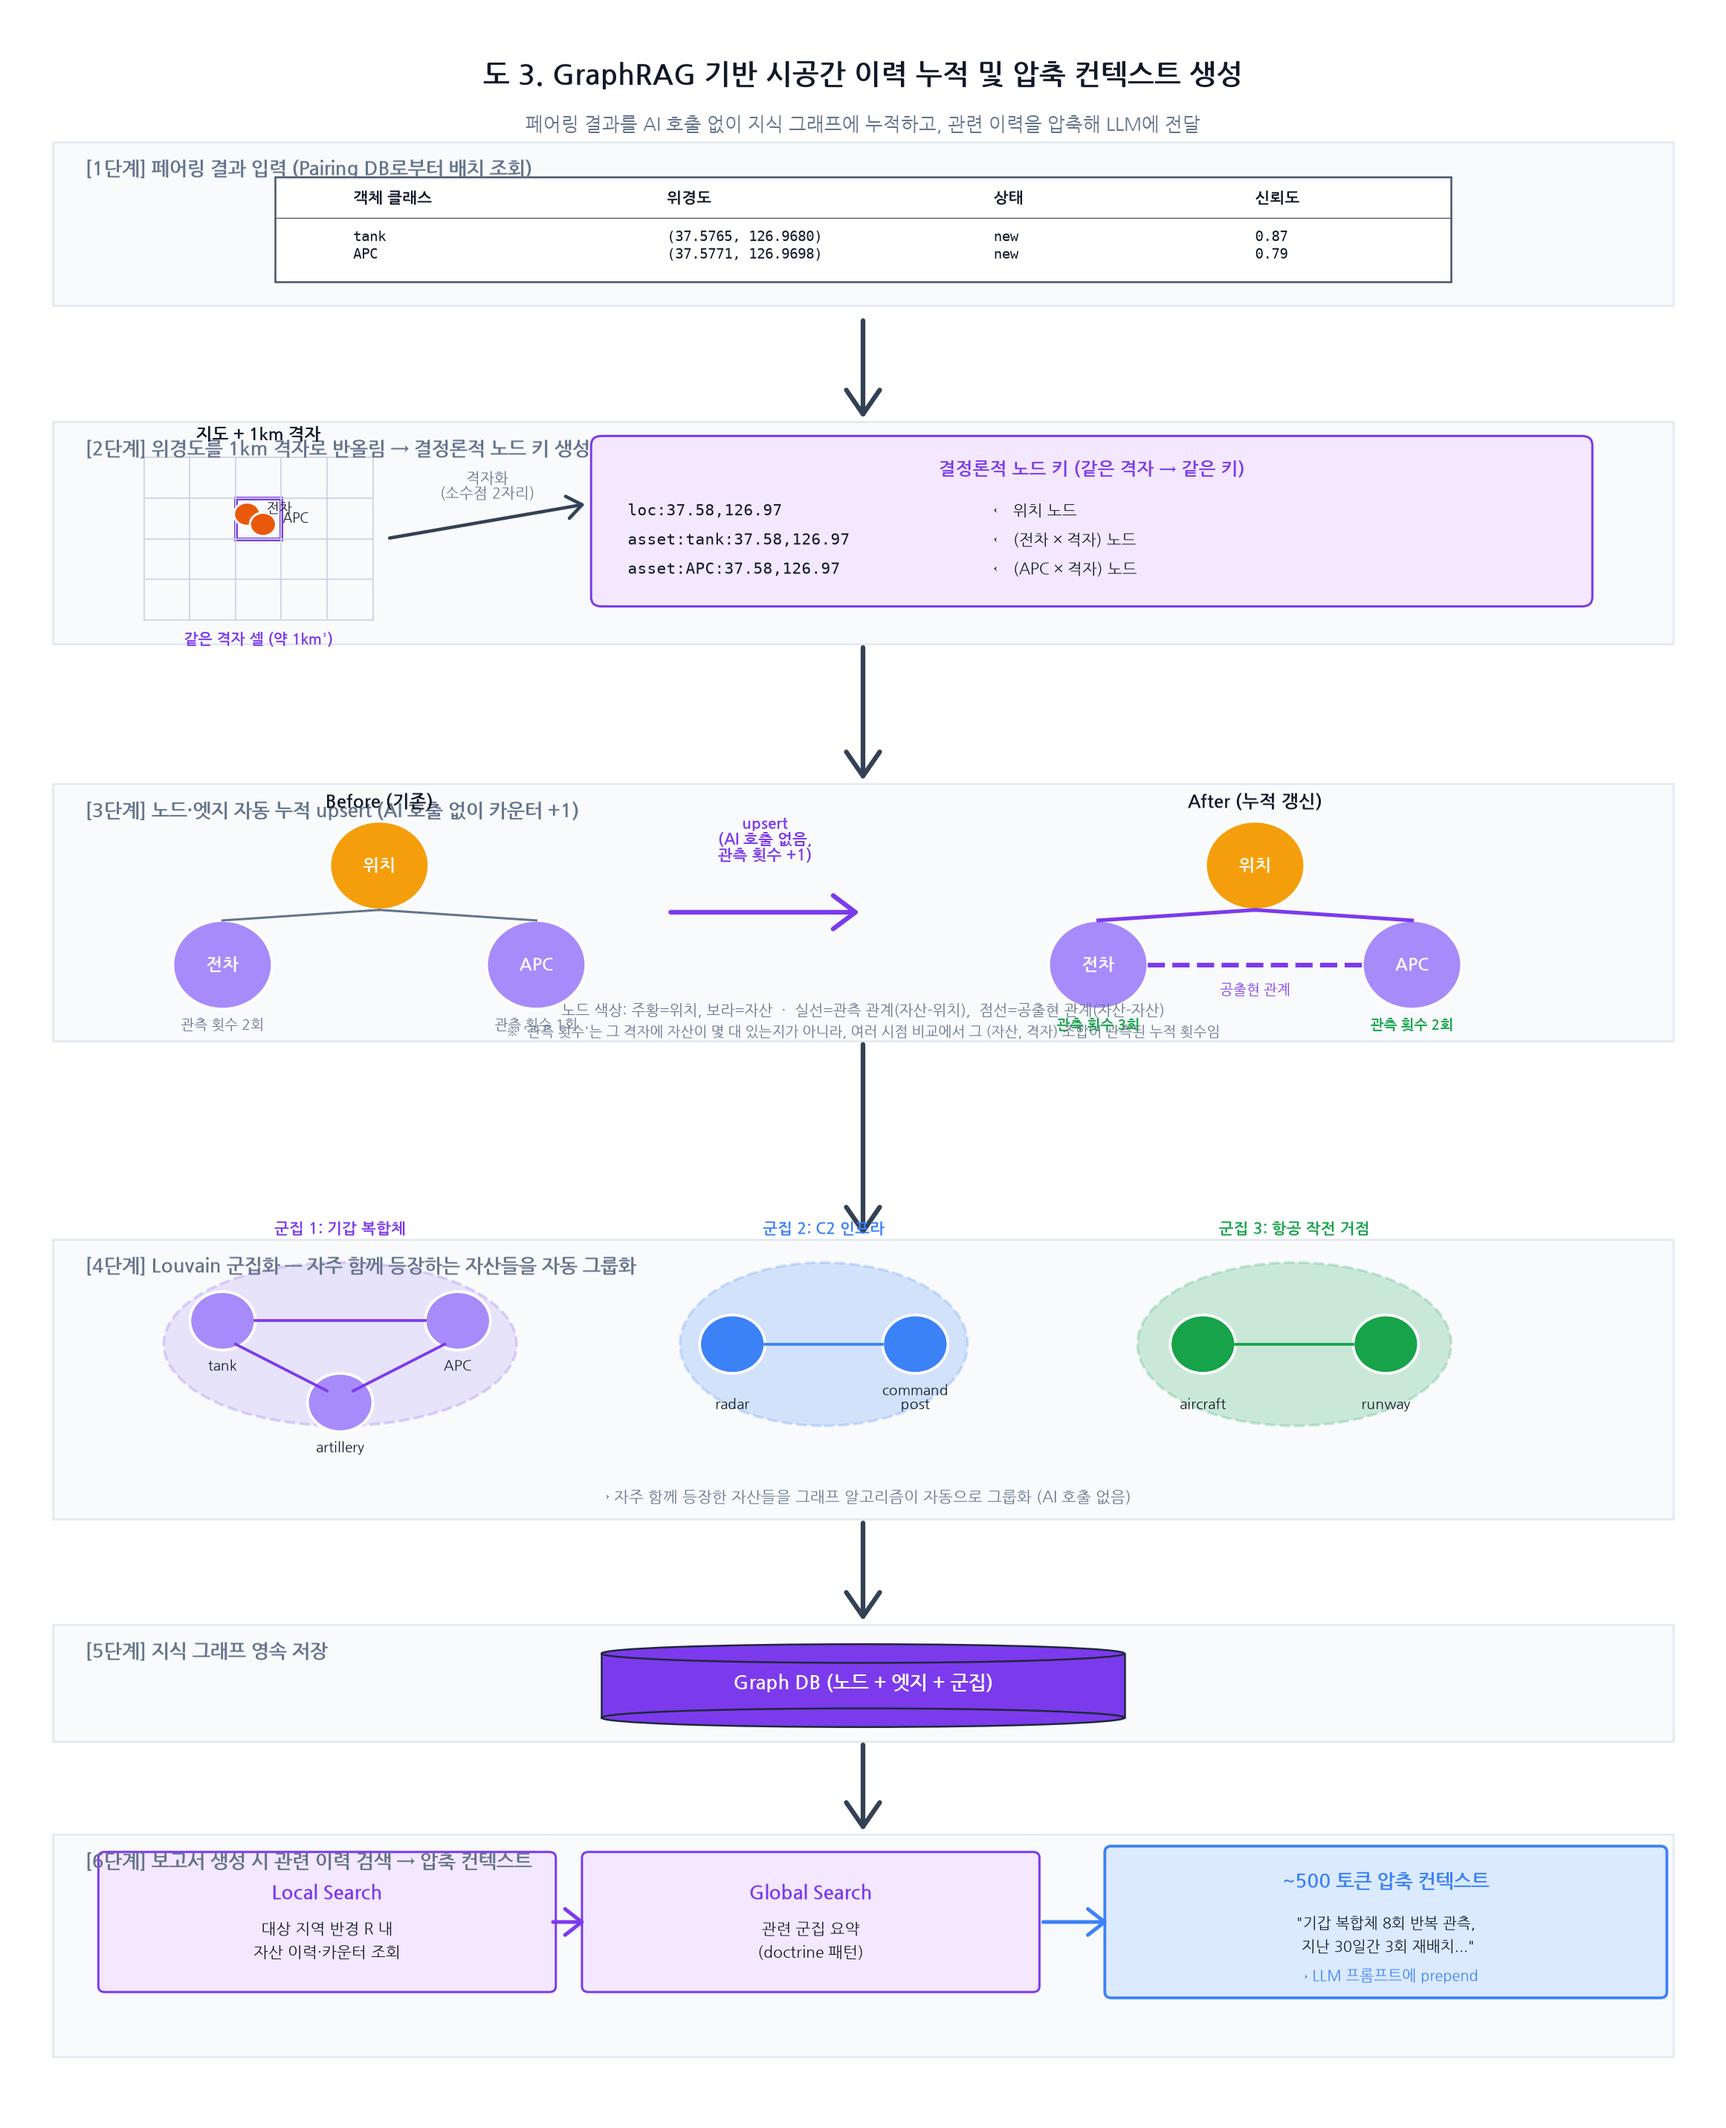
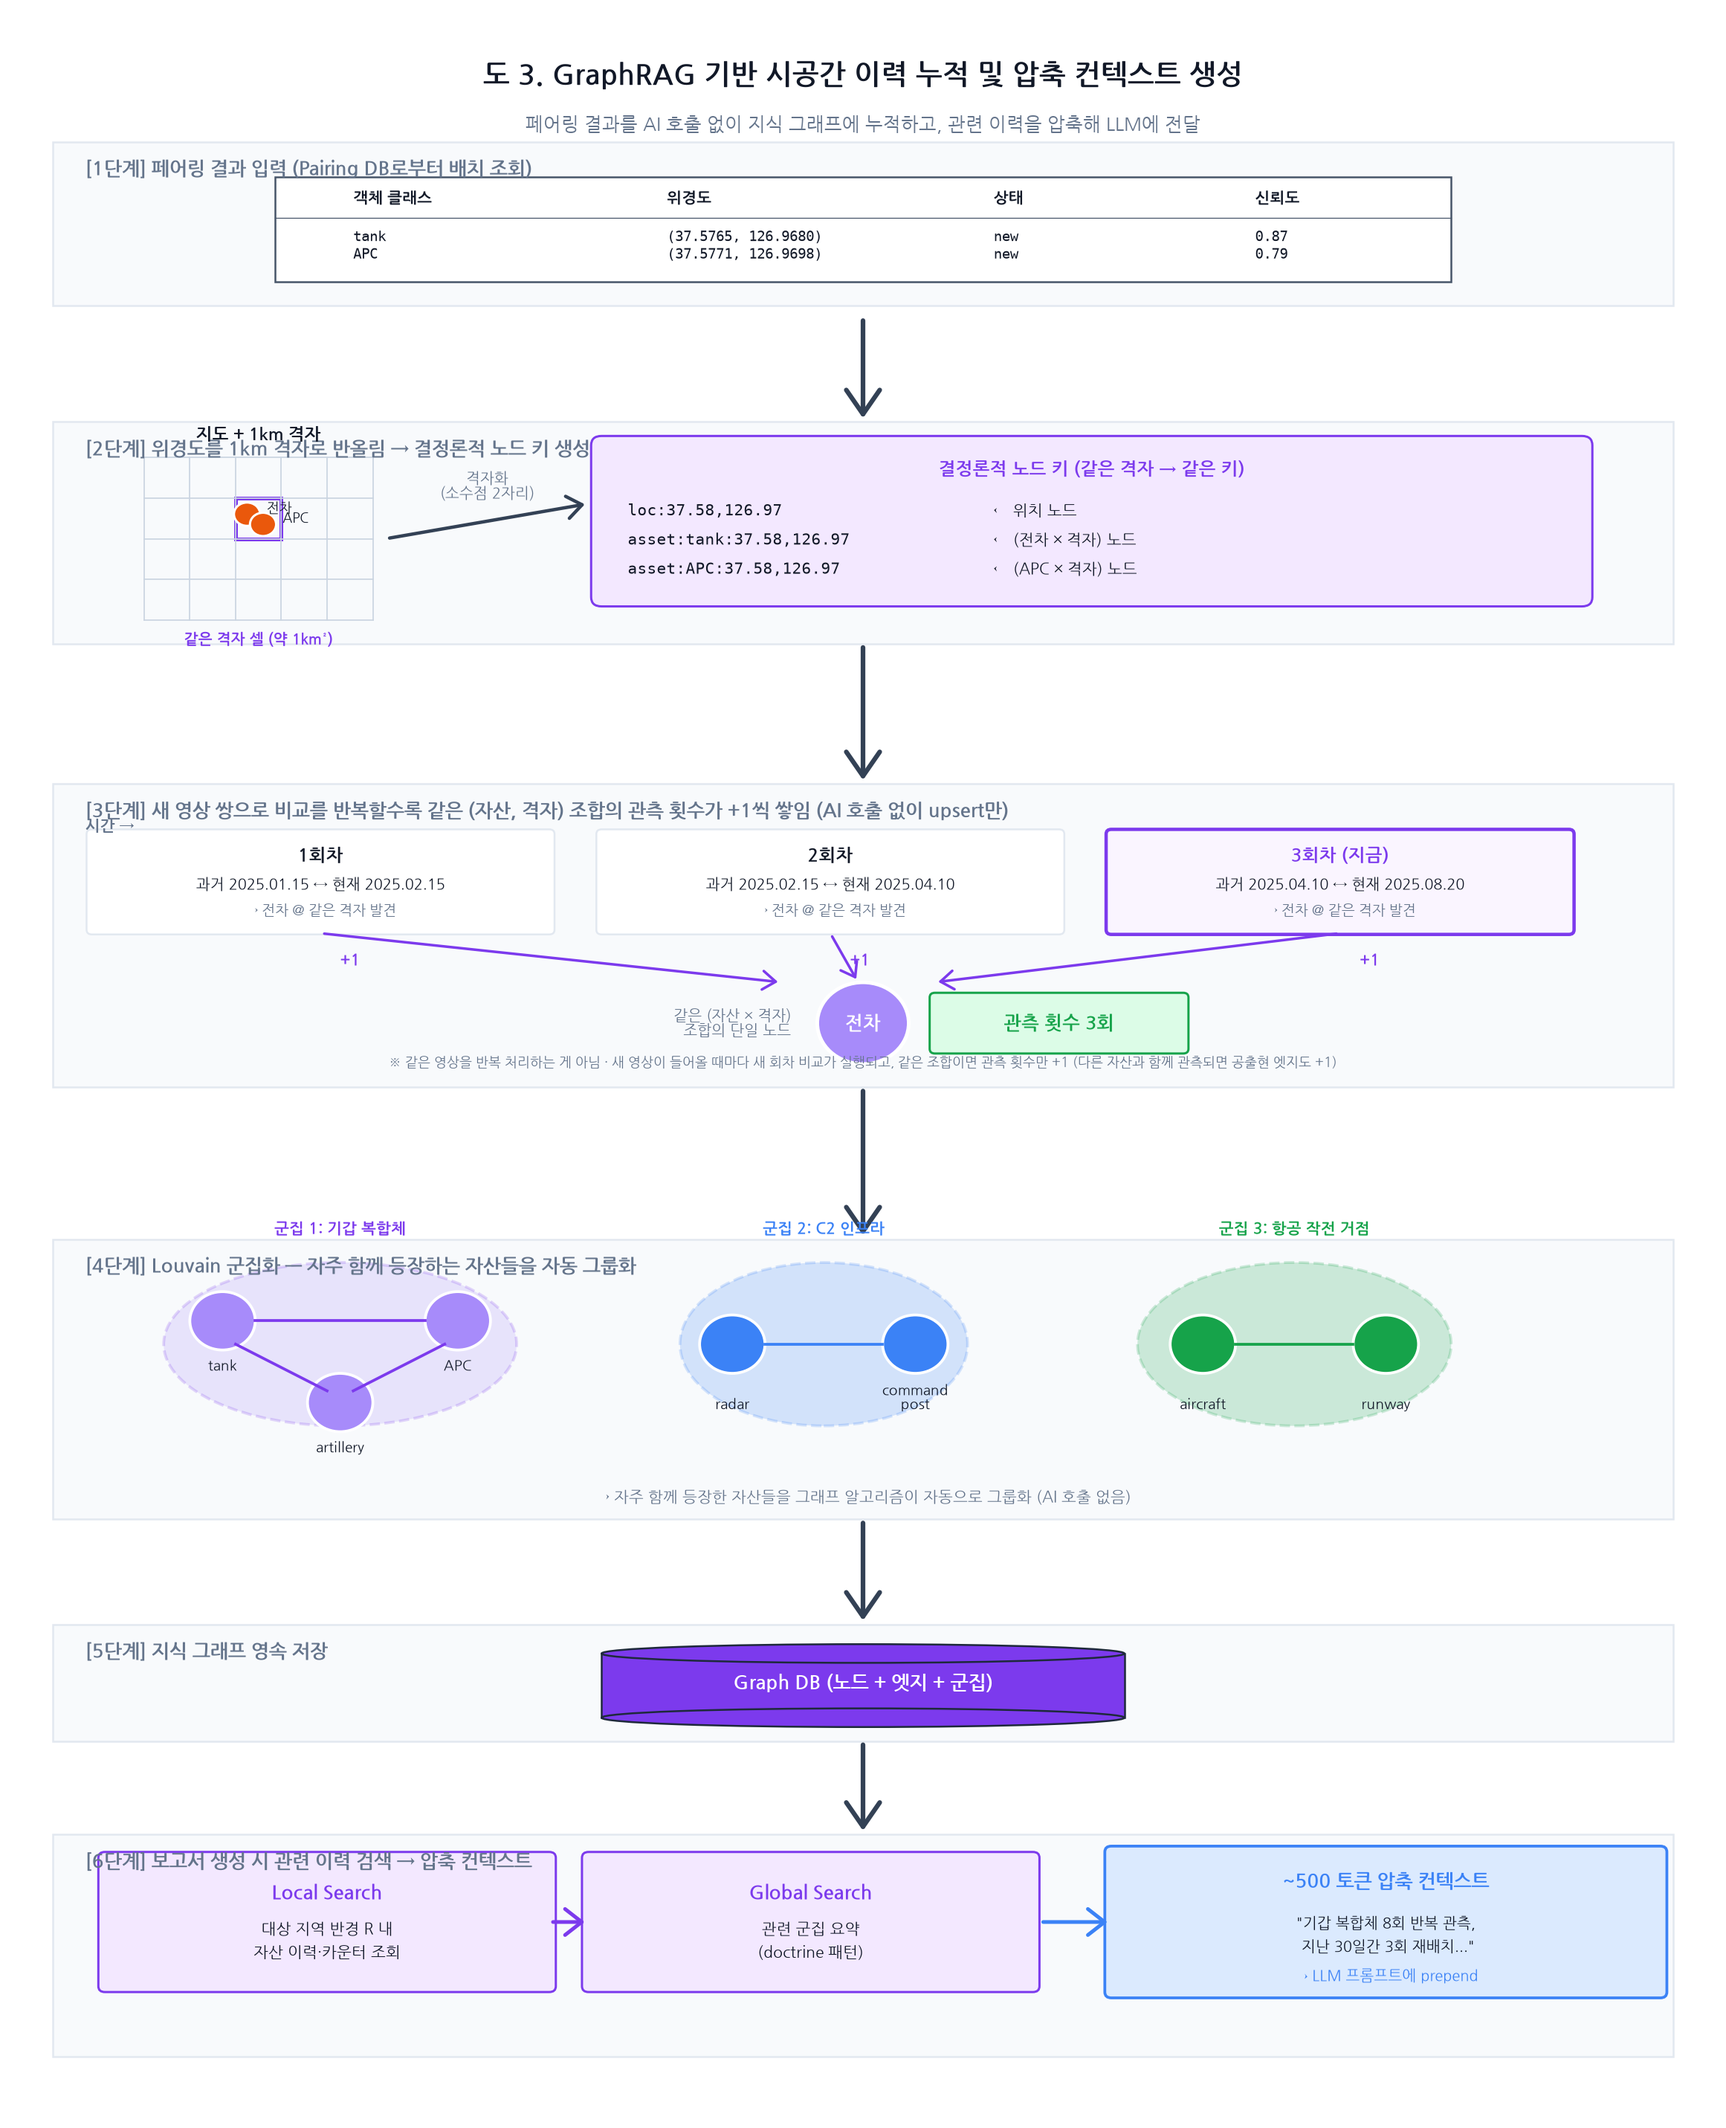
fig3 v2: 3단계를 회차 타임라인으로 재설계
기존 Before/After 그림은 upsert 1회의 결과를 보여줬지만
"관측 횟수가 여러 번 오르는 이유"가 시각적으로 드러나지 않았음.
3단계 레이아웃을 다음과 같이 재구성:
- 상단: 3개 회차 비교 카드(1회차/2회차/3회차 지금)를 시간순 좌→우 배치.
  각 카드에 실제 촬영 날짜 쌍을 표기해 "새 영상 쌍이 들어올 때마다
  새 회차 비교가 실행됨"을 명시.
- 중앙: 3개 카드가 모두 하나의 동일 노드(전차)로 '+1' 화살표를 쏨.
  같은 (자산, 격자) 조합이면 별도 노드가 생기지 않고 기존 노드의
  관측 횟수만 누적된다는 점이 직관적으로 보이도록.
- 하단: "같은 영상을 반복 처리하는 게 아님" 주석으로 흔한 오해 차단.
스테이지 높이를 2.2→2.6으로 늘리고 출구 화살표(y=9.2→8.8)도 조정.

Claude-Session: https://claude.ai/code/session_01Y3sWY7g1ewsnteVCS5FK4B

Changed region(s): [[0.2791, 0.3732, 0.8682, 0.5287], [0.093, 0.3732, 0.3721, 0.4976]]

diff --git a/build_fig3_v2.py b/build_fig3_v2.py
@@ -160,78 +160,68 @@ arrow_down(6.5, 12.6, 11.4)
 # ═══════════════════════════════════════════════════════════════
 # [3단계] 노드·엣지 자동 누적 (AI 호출 없음)
 # ═══════════════════════════════════════════════════════════════
-stage_bg(9.2, 2.2, "3단계", "노드·엣지 자동 누적 upsert (AI 호출 없이 카운터 +1)")
+stage_bg(8.8, 2.6, "3단계",
+         "새 영상 쌍으로 비교를 반복할수록 같은 (자산, 격자) 조합의 관측 횟수가 +1씩 쌓임 (AI 호출 없이 upsert만)")
 
-# 좌: Before (기존 그래프 상태 - 카운터 낮음)
-bx, by = 0.8, 9.5
-ax.text(bx + 2.0, by + 1.7, "Before (기존)", ha="center", fontsize=9.5,
-        fontweight="bold", color=TEXT)
-# location 노드
-ax.add_patch(Circle((bx + 2.0, by + 1.2), 0.38, facecolor=NODE_L, edgecolor="white", lw=1.5))
-ax.text(bx + 2.0, by + 1.2, "위치", ha="center", va="center",
-        fontsize=9, fontweight="bold", color="white")
-# asset 노드 2개
-ax.add_patch(Circle((bx + 0.8, by + 0.35), 0.38, facecolor=NODE_A, edgecolor="white", lw=1.5))
-ax.text(bx + 0.8, by + 0.35, "전차", ha="center", va="center", fontsize=9,
+# 시간축 라벨
+ax.text(0.55, 11.0, "시간 →", fontsize=8.5, color=MUTED,
+        style="italic", fontweight="bold")
+
+# 3개 회차 카드 (좌→우, 시간순)
+rounds = [
+    (0.6, 4.1,  "1회차",       "과거 2025.01.15 ↔ 현재 2025.02.15"),
+    (4.5, 8.0,  "2회차",       "과거 2025.02.15 ↔ 현재 2025.04.10"),
+    (8.4, 11.9, "3회차 (지금)", "과거 2025.04.10 ↔ 현재 2025.08.20"),
+]
+for x1, x2, round_name, date_range in rounds:
+    is_now = "지금" in round_name
+    fc = "#faf5ff" if is_now else "white"
+    ec = GRAPH if is_now else STAGE_BD
+    lw = 1.8 if is_now else 1.0
+    ax.add_patch(FancyBboxPatch((x1, 10.15), x2-x1, 0.82,
+                                 boxstyle="round,pad=0.04",
+                                 facecolor=fc, edgecolor=ec, lw=lw))
+    ax.text((x1+x2)/2, 10.74, round_name, ha="center", fontsize=9.5,
+            fontweight="bold", color=GRAPH if is_now else TEXT)
+    ax.text((x1+x2)/2, 10.5, date_range, ha="center", fontsize=7.8,
+            color=TEXT)
+    ax.text((x1+x2)/2, 10.28, "→ 전차 @ 같은 격자 발견",
+            ha="center", fontsize=7.5, color=MUTED, style="italic")
+
+# 각 카드 → 중앙 노드로 하강 화살표 + "+1" 라벨
+node_x, node_y = 6.5, 9.35
+for x1, x2, *_ in rounds:
+    cx = (x1+x2)/2
+    ax.add_patch(FancyArrowPatch((cx, 10.12),
+                                  (node_x + (cx-node_x)*0.15, node_y+0.35),
+                                  arrowstyle="->,head_length=7,head_width=5",
+                                  color=GRAPH, lw=1.4))
+    ax.text(cx + 0.15, 9.85, "+1", fontsize=8.5, color=GRAPH,
+            fontweight="bold")
+
+# 중앙 노드 (같은 노드가 매 회차마다 갱신됨)
+ax.add_patch(Circle((node_x, node_y), 0.35, facecolor=NODE_A,
+                    edgecolor="white", lw=2))
+ax.text(node_x, node_y, "전차", ha="center", va="center", fontsize=10,
         fontweight="bold", color="white")
-ax.text(bx + 0.8, by - 0.2, "관측 횟수 2회", ha="center", fontsize=7.5, color=MUTED)
+# 노드 왼쪽 설명
+ax.text(node_x - 0.55, node_y,
+        "같은 (자산 × 격자)\n조합의 단일 노드",
+        ha="right", va="center", fontsize=7.8, color=MUTED, style="italic")
+# 노드 오른쪽 관측 횟수 강조 뱃지
+ax.add_patch(FancyBboxPatch((node_x+0.55, node_y-0.22), 1.9, 0.44,
+                             boxstyle="round,pad=0.04",
+                             facecolor="#dcfce7", edgecolor=GREEN, lw=1.2))
+ax.text(node_x+1.5, node_y, "관측 횟수 3회", ha="center", va="center",
+        fontsize=10, fontweight="bold", color=GREEN)
 
-ax.add_patch(Circle((bx + 3.2, by + 0.35), 0.38, facecolor=NODE_A, edgecolor="white", lw=1.5))
-ax.text(bx + 3.2, by + 0.35, "APC", ha="center", va="center", fontsize=9,
-        fontweight="bold", color="white")
-ax.text(bx + 3.2, by - 0.2, "관측 횟수 1회", ha="center", fontsize=7.5, color=MUTED)
+# 하단 note
+ax.text(6.5, 8.98,
+        "※ 같은 영상을 반복 처리하는 게 아님 · 새 영상이 들어올 때마다 새 회차 비교가 실행되고, "
+        "같은 조합이면 관측 횟수만 +1 (다른 자산과 함께 관측되면 공출현 엣지도 +1)",
+        ha="center", fontsize=7.3, color=MUTED, style="italic")
 
-# 엣지
-ax.plot([bx + 0.8, bx + 2.0], [by + 0.73, by + 0.82], color=MUTED, lw=1.2)
-ax.plot([bx + 3.2, bx + 2.0], [by + 0.73, by + 0.82], color=MUTED, lw=1.2)
-
-# 중앙 화살표 (upsert 처리)
-mx = 5.0
-ax.add_patch(FancyArrowPatch((mx, by + 0.8), (mx + 1.5, by + 0.8),
-                              arrowstyle="->,head_length=12,head_width=9",
-                              color=GRAPH, lw=2.5))
-ax.text(mx + 0.75, by + 1.25, "upsert\n(AI 호출 없음,\n관측 횟수 +1)",
-        ha="center", fontsize=8.5, color=GRAPH, fontweight="bold")
-
-# 우: After (카운터 증가)
-ax_x, ay = 7.5, 9.5
-ax.text(ax_x + 2.0, ay + 1.7, "After (누적 갱신)", ha="center",
-        fontsize=9.5, fontweight="bold", color=TEXT)
-# location 노드
-ax.add_patch(Circle((ax_x + 2.0, ay + 1.2), 0.38, facecolor=NODE_L, edgecolor="white", lw=1.5))
-ax.text(ax_x + 2.0, ay + 1.2, "위치", ha="center", va="center",
-        fontsize=9, fontweight="bold", color="white")
-# asset 노드
-ax.add_patch(Circle((ax_x + 0.8, ay + 0.35), 0.38, facecolor=NODE_A, edgecolor="white", lw=1.5))
-ax.text(ax_x + 0.8, ay + 0.35, "전차", ha="center", va="center", fontsize=9,
-        fontweight="bold", color="white")
-ax.text(ax_x + 0.8, ay - 0.2, "관측 횟수 3회", ha="center", fontsize=7.5,
-        color=GREEN, fontweight="bold")
-
-ax.add_patch(Circle((ax_x + 3.2, ay + 0.35), 0.38, facecolor=NODE_A, edgecolor="white", lw=1.5))
-ax.text(ax_x + 3.2, ay + 0.35, "APC", ha="center", va="center", fontsize=9,
-        fontweight="bold", color="white")
-ax.text(ax_x + 3.2, ay - 0.2, "관측 횟수 2회", ha="center", fontsize=7.5,
-        color=GREEN, fontweight="bold")
-
-# 엣지 - 굵어짐 (공출현 강화)
-ax.plot([ax_x + 0.8, ax_x + 2.0], [ay + 0.73, ay + 0.82], color=GRAPH, lw=2.0)
-ax.plot([ax_x + 3.2, ax_x + 2.0], [ay + 0.73, ay + 0.82], color=GRAPH, lw=2.0)
-# co_occurred_with 엣지 (asset 간)
-ax.plot([ax_x + 1.18, ax_x + 2.82], [ay + 0.35, ay + 0.35],
-        color=GRAPH, lw=2.5, linestyle="--")
-ax.text(ax_x + 2.0, ay + 0.1, "공출현 관계", ha="center",
-        fontsize=7.5, color=GRAPH, style="italic")
-
-# 하단 설명
-ax.text(6.5, 9.42,
-        "노드 색상: 주황=위치, 보라=자산  ·  실선=관측 관계(자산-위치),  점선=공출현 관계(자산-자산)",
-        ha="center", fontsize=8, color=MUTED, style="italic")
-ax.text(6.5, 9.24,
-        "※ '관측 횟수'는 그 격자에 자산이 몇 대 있는지가 아니라, 여러 시점 비교에서 그 (자산, 격자) 조합이 관측된 누적 횟수임",
-        ha="center", fontsize=7.5, color=MUTED, style="italic")
-
-arrow_down(6.5, 9.2, 7.5)
+arrow_down(6.5, 8.8, 7.5)
 
 # ═══════════════════════════════════════════════════════════════
 # [4단계] Louvain 군집화 (자산 doctrine 패턴 자동 발견)
